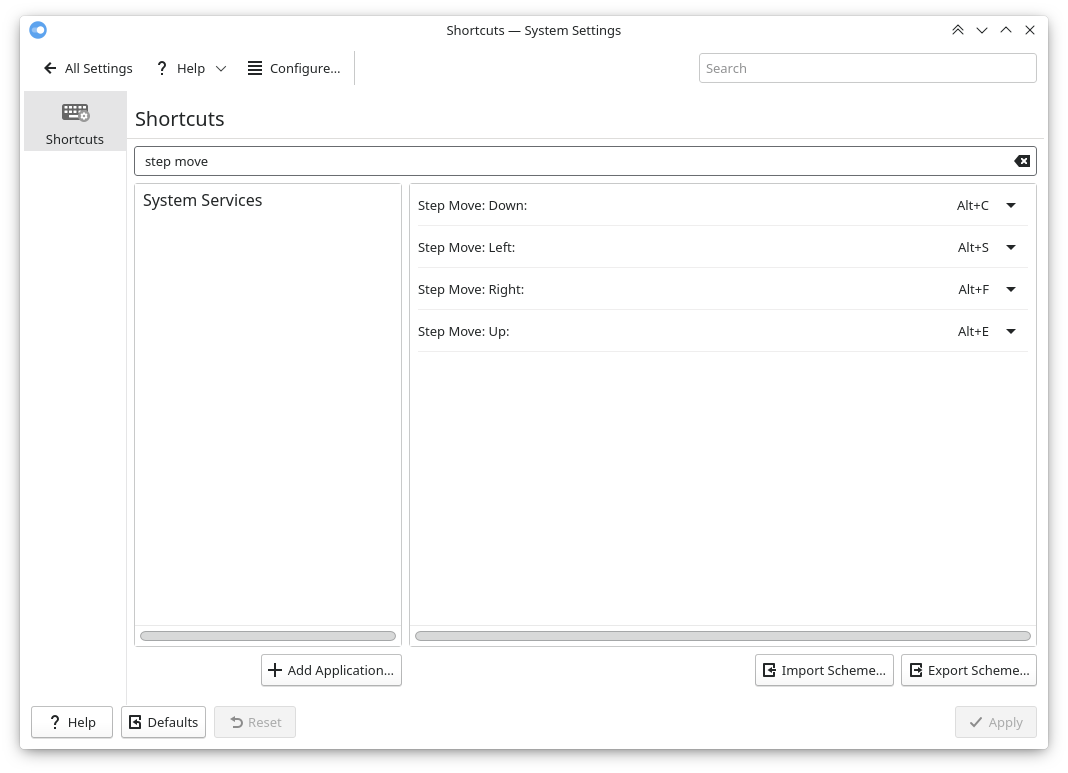
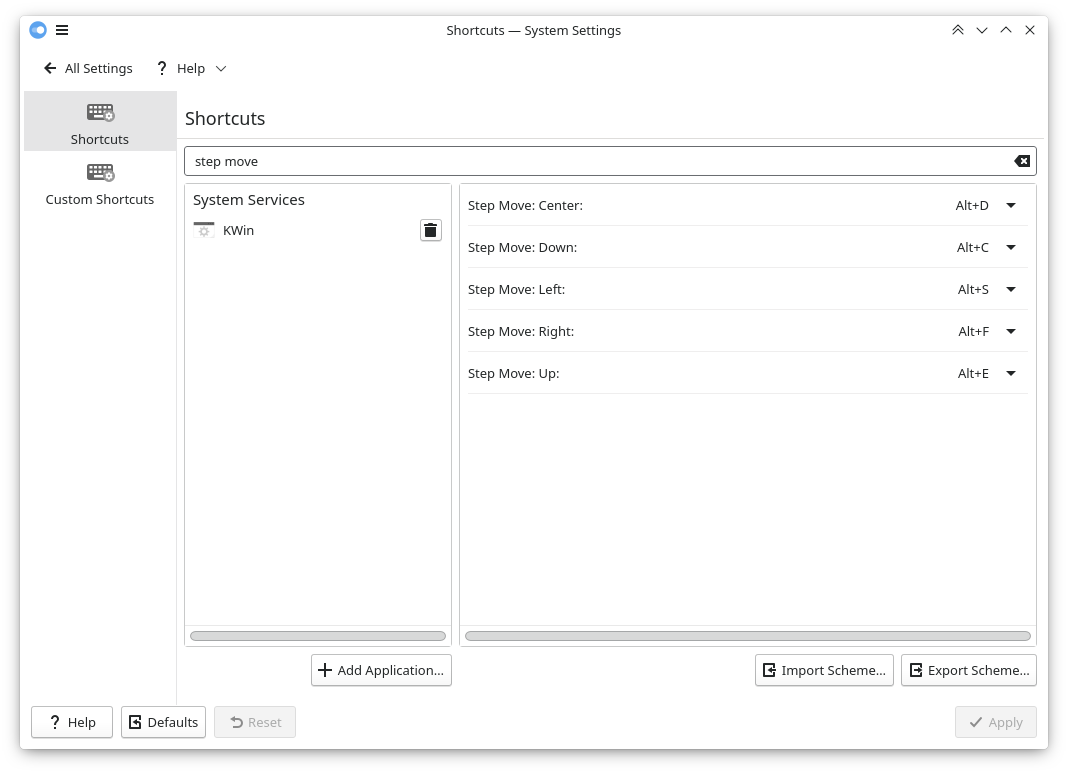
update metadata

diff --git a/swap-left-right/contents/code/main.js b/swap-left-right/contents/code/main.js
@@ -11,66 +11,51 @@ registerShortcut("Swap left and right", "Swap Left and Right", "Meta+Shift+Right
 function swapLeftRight() {
     console.debug("swap left and right");
 
-    // get active window
-    var active = workspace.activeClient;
-    if (active == null) {
-        return;
-    }
-    var win1 = active;
-
     // get area geometry
+    var active = workspace.activeClient;
+    if (active == undefined) return;
     var area = workspace.clientArea(active, active.screen, active.desktop);
-    var leftHalf = {
-        x: area.x,
-        y: area.y,
-        width: area.width/2,
-        height: area.height
-    };
-    var rightHalf = {
-        x: area.x + area.width/2,
-        y: area.y,
-        width: area.width/2,
-        height: area.height
+    var grid = {
+        left: area.x,
+        midH: area.x + area.width/2,
+        halfWidth: area.width/2
     };
 
-    // try swapping the halves
-    if (swapHalves(leftHalf, rightHalf)) return;
-    if (swapHalves(rightHalf, leftHalf)) return;
+    // get halves to swap
+    // left windows
+    var left = workspace.clientList().filter(win =>
+        relevant(win, active) &&
+        near(win.x, grid.left) && near(win.width, grid.halfWidth));
+    // right windows
+    var right = workspace.clientList().filter(win =>
+        relevant(win, active) &&
+        near(win.x, grid.midH) && near(win.width, grid.halfWidth));
 
-    function swapHalves(half1, half2) {
-        // check if active window is on one half
-        if (near(win1.geometry, half1)) {
-            // find window on other half
-            var clients = workspace.clientList().reverse();
-            for (var i = 0; i < clients.length; i++) {
-                win2 = clients[i];
-                // other window is on other half
-                if (relevant(win1, win2) && near(win2.geometry, half2)) {
-                    // swap halves and unminimize
-                    win1.geometry = half2;
-                    win2.geometry = half1;
-                    win1.minimized = false;
-                    win2.minimized = false;
-                    return true;
-                }
-            }
-        }
+    // swap halves
+    // move left windows to right
+    for (const win of left) {
+        win.geometry.x = grid.midH;
+        win.minimized = false;
     }
+    // move right windows to left
+    for (const win of right) {
+        win.geometry.x = grid.left;
+        win.minimized = false;
+    }
+
 
     // helper functions
 
-    // window is considered near an area iff the difference on all coordinates is within tolerance
+    // window is considered near an area iff the difference of the coordinates is within tolerance
     function near(actual, expected) {
-        return Object.keys(expected).every(coord =>
-            Math.abs(actual[coord] - expected[coord]) <= 0.02 * area.width);
+        return Math.abs(actual - expected) <= 0.02 * area.width;
     }
 
     // window is relevant iff it is not identical, unminimized, on the same desktop and screen, and resizable
-    function relevant(win1, win2) {
-        return win2 != win1
-            && !win2.minimized
-            && (win2.desktop == win1.desktop || win2.desktop == -1 || win1.desktop == -1)
-            && win2.screen == win1.screen
-            && win2.resizeable;
+    function relevant(win, active) {
+        return !win.minimized
+            && (win.desktop == active.desktop || win.onAllDesktops)
+            && win.screen == active.screen
+            && win.resizeable;
     }
 }

diff --git a/swap-left-right/contents/code/main_.js b/swap-left-right/contents/code/main_.js
@@ -1,0 +1,74 @@
+/*
+KWin Script Swap Left and Right
+(C) 2021 Natalie Clarius <natalie_clarius@yahoo.de>
+GNU General Public License v3.0
+*/
+
+// register keyboard shortcut
+registerShortcut("Swap left and right", "Swap Left and Right", "Meta+Shift+Right", swapLeftRight);
+
+// swap left and right halves for the active window
+function swapLeftRight() {
+    console.debug("swap left and right");
+
+    // get active window
+    var active = workspace.activeClient;
+    if (active == null) return;
+    var win1 = active;
+
+    // get area geometry
+    var area = workspace.clientArea(active, active.screen, active.desktop);
+    var leftHalf = {
+        x: area.x,
+        y: area.y,
+        width: area.width/2,
+        height: area.height
+    };
+    var rightHalf = {
+        x: area.x + area.width/2,
+        y: area.y,
+        width: area.width/2,
+        height: area.height
+    };
+
+    // try swapping the halves
+    if (swapHalves(leftHalf, rightHalf)) return;
+    if (swapHalves(rightHalf, leftHalf)) return;
+
+    function swapHalves(half1, half2) {
+        // check if active window is on one half
+        if (near(win1.geometry, half1)) {
+            // find window on other half
+            var clients = workspace.clientList().reverse();
+            for (var i = 0; i < clients.length; i++) {
+                win2 = clients[i];
+                // other window is on other half
+                if (relevant(win1, win2) && near(win2.geometry, half2)) {
+                    // swap halves and unminimize
+                    win1.geometry = half2;
+                    win2.geometry = half1;
+                    win1.minimized = false;
+                    win2.minimized = false;
+                    return true;
+                }
+            }
+        }
+    }
+
+    // helper functions
+
+    // window is considered near an area iff the difference on all coordinates is within tolerance
+    function near(actual, expected) {
+        return Object.keys(expected).every(coord =>
+            Math.abs(actual[coord] - expected[coord]) <= 0.02 * area.width);
+    }
+
+    // window is relevant iff it is not identical, unminimized, on the same desktop and screen, and resizable
+    function relevant(win1, win2) {
+        return win2 != win1
+            && !win2.minimized
+            && (win2.desktop == win1.desktop || win2.onAllDesktops || win1.onAllDesktops)
+            && win2.screen == win1.screen
+            && win2.resizeable;
+    }
+}

diff --git a/step-regrid/contents/code/main.js b/step-regrid/contents/code/main.js
@@ -33,6 +33,7 @@ debug("step re-grid filters:", "resize others:", config.resizeOthers, "resize mi
 // register shortcuts
 ///////////////////////
 
+registerShortcut("Step regrid: shift center"    , "Step Regrid: Shift Center"    , "Alt+K", shiftCenter);
 registerShortcut("Step regrid: shift rightwards", "Step Regrid: Shift Rightwards", "Alt+L", shiftRight);
 registerShortcut("Step regrid: shift leftwards" , "Step Regrid: Shift Leftwards" , "Alt+J", shiftLeft);
 registerShortcut("Step regrid: shift downwards" , "Step Regrid: Shift Downwards" , "Alt+,", shiftDown);
@@ -43,6 +44,45 @@ registerShortcut("Step regrid: shift upwards"   , "Step Regrid: Shift Upwards"  
 // regrid windows
 ///////////////////////
 
+function shiftCenter() {
+    debug("regrid center");
+    active = workspace.activeClient;
+    area = workspace.clientArea(active, active.screen, active.desktop);
+    wins = config.resizeOthers ? getClients(area) : [active];
+    for (var i = 0; i < wins.length; i++) {
+        win = wins[i];
+        if (!tiledWidth(win, area)) {
+            // tiled to left/right: set to half width
+            win.clientStartUserMovedResized(win);
+            if (tiledLeft(win, area)) {
+                win.gemetry.x = area.x;
+                win.geometry.width = area.width/2;
+            }
+            else if (tiledRight(win, area)) {
+                win.geometry.x = area.x + area.width/2;
+                win.geometry.width = area.width/2;
+            }
+            else {
+            }
+            win.clientFinishUserMovedResized(win);
+        };
+        if (!tiledHeight(win, area)) {
+            // tiled to top/bottom: set to half height
+            win.clientStartUserMovedResized(win);
+            if (tiledTop(win, area)) {
+                win.geometry.y = area.y;
+                win.geometry.height = area.height/2;
+            }
+            else if (tiledBottom(win, area)) {
+                win.geometry.y = area.y + area.height/2;
+                win.geometry.height = area.height/2;
+            }
+            else {
+            }
+            win.clientFinishUserMovedResized(win);
+        }
+    }
+}
 
 function shiftRight() {
     debug("regrid rightwards");

diff --git a/step-move/contents/code/main.js b/step-move/contents/code/main.js
@@ -29,15 +29,26 @@ debug("step move settings:", "step horizontal:", config.stepHorizontal, "step ve
 // register shortcuts
 ///////////////////////
 
-registerShortcut("Step move: left" , "Step Move: Left" , "Alt+S", moveLeft );
-registerShortcut("Step move: right", "Step Move: Right", "Alt+F", moveRight);
-registerShortcut("Step move: up"   , "Step Move: Up"   , "Alt+E", moveUp   );
-registerShortcut("Step move: down" , "Step Move: Down" , "Alt+C", moveDown );
+registerShortcut("Step move: center", "Step Move: Center", "Alt+D", moveCenter);
+registerShortcut("Step move: left"  , "Step Move: Left"  , "Alt+S", moveLeft  );
+registerShortcut("Step move: right" , "Step Move: Right" , "Alt+F", moveRight );
+registerShortcut("Step move: up"    , "Step Move: Up"    , "Alt+E", moveUp    );
+registerShortcut("Step move: down"  , "Step Move: Down"  , "Alt+C", moveDown  );
 
 
 ///////////////////////
 // move window
-///////////////////////
+//////////////////////////////////////////////
+
+function moveCenter() {
+    win = workspace.activeClient;
+    area = workspace.clientArea(win, win.screen, win.desktop);
+    debug("move center", win.caption);
+    win.clientStartUserMovedResized(win);
+    win.geometry.x = area.x + area.width/2 - win.width/2;
+    win.geometry.y = area.y + area.height/2 - win.height/2;
+    win.clientFinishUserMovedResized(win);
+}
 
 function moveLeft() {
     win = workspace.activeClient;

diff --git a/step-resize/contents/code/main.js b/step-resize/contents/code/main.js
@@ -23,7 +23,7 @@ config = {
 debugMode = true;
 function debug(...args) {if (debugMode) {console.debug(...args);}}
 debug("initializing step resize");
-debug("step resize settings:", "step horizontal:", config.stepHor, "step verticla:", config.stepVer, "tolerance:", config.tolerance);
+debug("step resize settings:", "step horizontal:", config.stepHor, "step vertical:", config.stepVer, "tolerance:", config.tolerance);
 
 
 ///////////////////////

diff --git a/step-regrid/README.md b/step-regrid/README.md
@@ -1,6 +1,6 @@
 # Step Re-Grid
 
-Extension for KDE’s window manager adding keyboard shortcuts to stepwise reshape the window grid, that is, resize the active or all windows from the center axes depending on their position:
+Extension for KDE’s window manager adding keyboard shortcuts to stepwise reshape the window grid, that is, resize the active or all windows from the center axes depending of their position:
 
 - shift rightwards:
   - windows at the left screen edge: grow to right
@@ -64,11 +64,14 @@ ln -sf ~/.local/share/kwin/scripts/stepregrid/metadata.desktop ~/.local/share/ks
 The default shortcuts are:
 
 ```
-                    upwards    
-                     Alt+I       
-leftwards  Alt+J               Alt+L  rightwards
-                     Alt+,
-                   downwards
+              upwards
+               Alt+I
+
+leftwards     center      rightwards
+  Alt+J        Alt+K        Alt+L
+  
+             downwards
+               Alt+,
 ```
 
 

diff --git a/step-move/README.md b/step-move/README.md
@@ -1,6 +1,6 @@
 # Step Move
 
-Extension for KDE’s window manager adding keyboard shortcuts to stepwise move (left/right/top/bottom) windows.
+Extension for KDE’s window manager adding keyboard shortcuts to stepwise move (left/right/top/bottom/center) windows.
 
 The step sizes and the keyboard shortcuts are configurable.
 
@@ -58,11 +58,14 @@ ln -sf ~/.local/share/kwin/scripts/stepmove/metadata.desktop ~/.local/share/kser
 The default shortcuts are:
 
 ```
-                 top    
-                Alt+E        
-left  Alt+S               Alt+F  right     
-                Alt+C
-               bottom
+           top
+          Alt+E
+                
+ left     center     right
+Alt+S     Alt+D      Alt+F
+    
+          bottom
+          Alt+C
 ```
 
 
